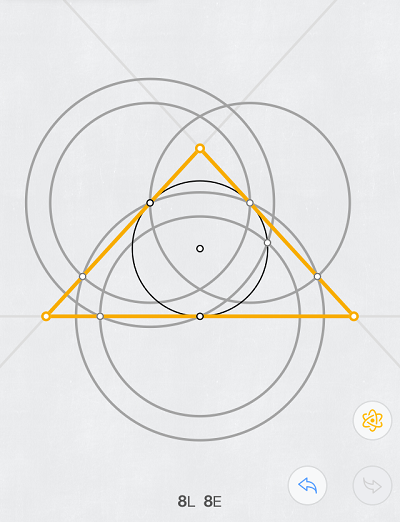
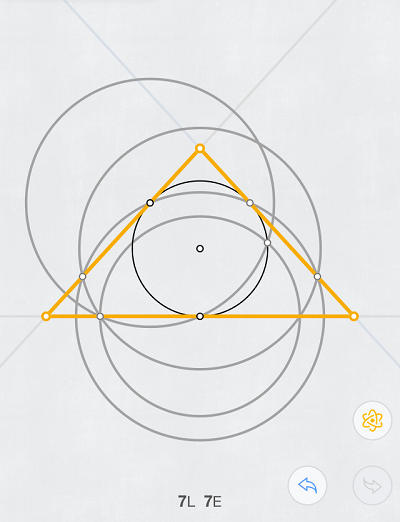
Update 3.10 7E solution.

diff --git a/README.md b/README.md
@@ -14,6 +14,7 @@
 - [v1版本链接(全最优解更新完成)](https://mathsfans.github.io/Euclidea/v1/)  
 
 重要解法更新(v1版本)：
+- (2018-04-18) 3.10 7E新纪录解法。 
 - (2018-04-11) 根据iOS 4.07版增加8个新问题并重排题目顺序，更新最优解法(包含6.10 4E和8.6 4L、5E解法)。 
 - (2018-01-27) 14.4 6L新纪录解法。 
 - (2018-01-11) 14.8 7E新纪录解法。 
@@ -43,6 +44,7 @@ The solution pages:
 - [v1 (all optimal solutions, descriptions in Chinese)](https://mathsfans.github.io/Euclidea/v1/)  
 
 Version history (v1 version)：
+- (2018-01-27) New record update: 3.10 7E. 
 - (2018-04-11) Add 8 new problems and re-order all problems according to iOS v4.07, with updated optimal solutions (including 6.10 4E, 8.6 4L and 5E). 
 - (2018-01-27) New record update: 14.4 6L. 
 - (2018-01-11) New record update: 14.8 7E. 

diff --git a/v1/Euclidea3.md b/v1/Euclidea3.md
@@ -134,9 +134,9 @@
 - 3.9 四边形的中心 *4L 10E*  
 解：[4L10E，用三次垂直平分线。](solving/3.9.png)  
 
-- 3.10 由切点做外切等腰三角形 *5L 8E 3V* ⭐  
+- 3.10 由切点做外切等腰三角形 *5L 7E 3V* ⭐  
 解：[5L，利用垂直工具作切线，同时利用中垂线工具得到定点和另一边的切点。](solving/3.10.1.png)  
-解：[8E，利用2.8的技巧作切线，中途利用已得到的对称点。](solving/3.10.2.png)  
+解：[7E，利用2.8的技巧作切线，利用中心点画圆以得到更多对称点。](solving/3.10.2.png)  
 注：[3V，共有3个解，全部作出即可。](solving/3.10.3.png)  
 
 #### § 4.Delta 普通⭐:30，隐藏⭐:4，全解完成  
